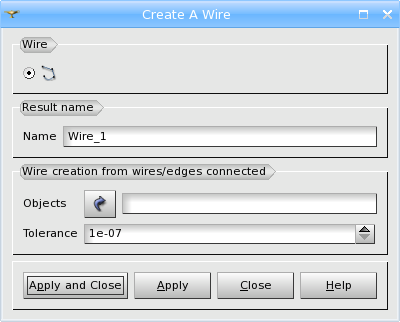
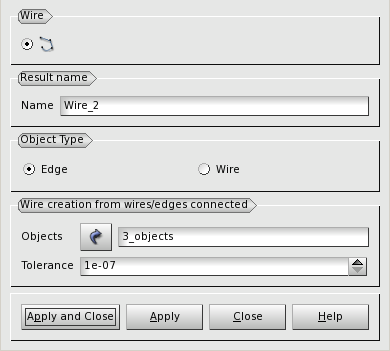
0020740: EDF 1253 GEOM : Be able to select edges of face when we build a wire

diff --git a/src/BuildGUI/BuildGUI_WireDlg.h b/src/BuildGUI/BuildGUI_WireDlg.h
@@ -30,6 +30,7 @@
 #include <GEOMBase_Skeleton.h>
 
 class DlgRef_1Sel1Spin;
+class DlgRef_3Radio;
 
 //=================================================================================
 // class    : BuildGUI_WireDlg
@@ -47,7 +48,8 @@ protected:
   // redefined from GEOMBase_Helper
   virtual GEOM::GEOM_IOperations_ptr createOperation();
   virtual bool                       isValid( QString& );
-  virtual bool                       execute( ObjectList& );    
+  virtual bool                       execute( ObjectList& );
+  virtual void                       addSubshapesToStudy(); 
 
 private:
   void                               Init();
@@ -58,13 +60,18 @@ private:
   bool                               myOkEdgesAndWires;   /* to check when arguments is defined */
   
   DlgRef_1Sel1Spin*                  GroupArgs;
+  DlgRef_3Radio*                     GroupType;
+
+  QMap<QString, GEOM::GEOM_Object_var> myMapToStudy;
 
 private slots:
   void                               ClickOnOk();
   bool                               ClickOnApply();
   void                               ActivateThisDialog();
+  void                               DeactivateActiveDialog();
   void                               SelectionIntoArgument();
   void                               SetEditCurrentArgument();
+  void                               TypeButtonClicked();
 };
 
 #endif // BUILDGUI_WIREDLG_H
